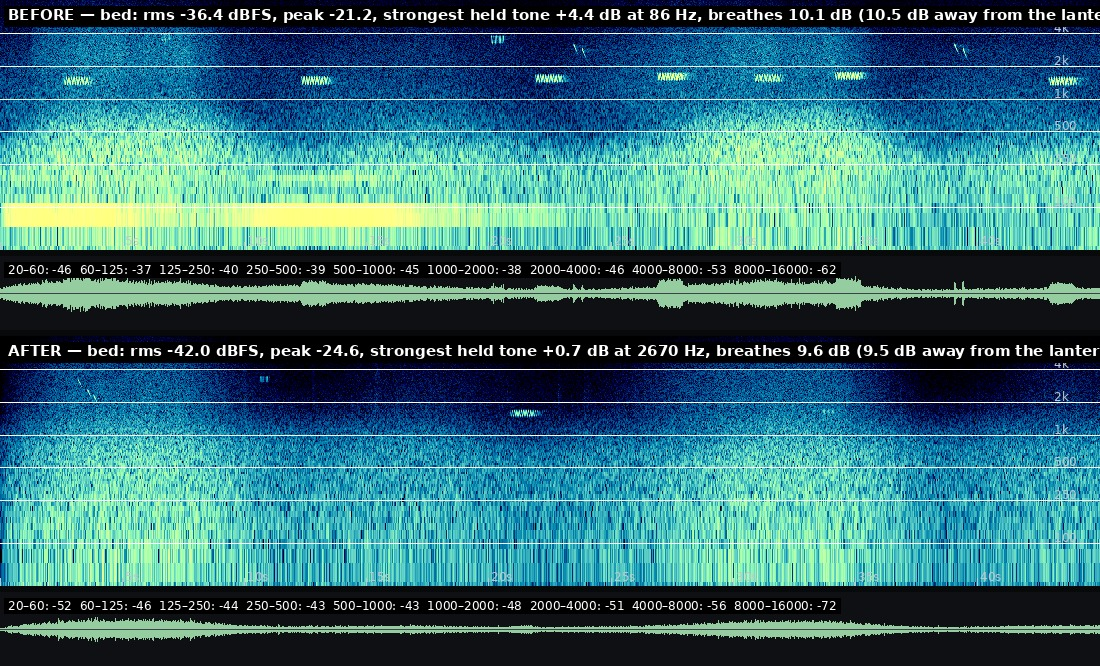
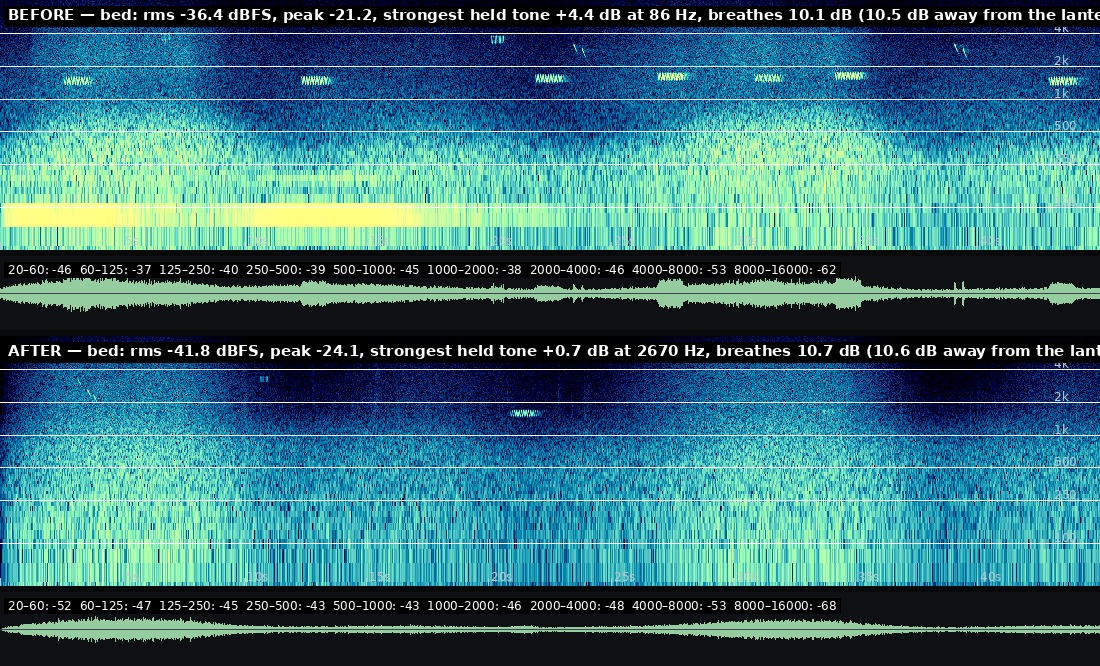
ambience: birds a little more present (3 dB up, gaps 3.5-11.5 s) — at a distance, but the forest should still have life in it

diff --git a/src/audio/ambience.ts b/src/audio/ambience.ts
@@ -353,14 +353,14 @@ export function createAmbience(ctx: BaseAudioContext, out: AudioNode, reverbSend
       const b = pickBird();
       const distance = b.near + eventRng() * (b.far - b.near);
       const pan = (eventRng() * 2 - 1) * 0.85;
-      const level = 0.02 + eventRng() * 0.035;
+      const level = 0.03 + eventRng() * 0.045;
       birdCall(b.kind, nextBird, pan, level, distance);
       // sometimes one answers from the other side, always further off
-      if (eventRng() < 0.28) {
+      if (eventRng() < 0.3) {
         const a = pickBird();
         birdCall(a.kind, nextBird + 1.1 + eventRng() * 1.4, -pan * 0.8, level * 0.6, Math.min(1, distance + 0.2));
       }
-      nextBird += 4.5 + eventRng() * 9;
+      nextBird += 3.5 + eventRng() * 8;
     }
   };
 

diff --git a/art/audio/2026-09-23-lane5/spectra.py b/art/audio/2026-09-23-lane5/spectra.py
@@ -205,9 +205,9 @@ def sheet(args):
         axes(spec, secs)
         env = envelope_image(x, sr, width, 74)
         head = (
-            f'{name} — {args.stem}: rms {m["rms_db"]:.1f} dBFS, peak {m["peak_db"]:.1f}, '
-            f'strongest held tone +{m["tone_peak_db"]:.1f} dB at {m["tone_peak_hz"]:.0f} Hz, '
-            f'breathes {m["mod_db"]:.1f} dB ({m["mod_tail_db"]:.1f} dB away from the lanterns)'
+            f'{name} — {args.stem}: rms {m["rms_db"]:.1f} dBFS   peak {m["peak_db"]:.1f}   '
+            f'strongest held tone +{m["tone_peak_db"]:.1f} dB at {m["tone_peak_hz"]:.0f} Hz   '
+            f'breathes {m["mod_db"]:.1f} dB'
         )
         label(spec, head)
         band = '  '.join(f'{k.split("-")[0]}–{k.split("-")[1]}: {v:.0f}' for k, v in m['band_db'].items())
@@ -441,7 +441,7 @@ def main():
     s.add_argument('--stem', default='bed')
     s.add_argument('--out', required=True)
     s.add_argument('--json')
-    s.add_argument('--width', type=int, default=1100)
+    s.add_argument('--width', type=int, default=1240)
     s.add_argument('--spec-height', type=int, default=250)
     s.set_defaults(func=sheet)
     t = sub.add_parser('steps')
